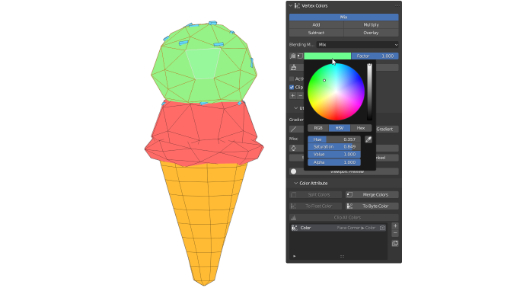
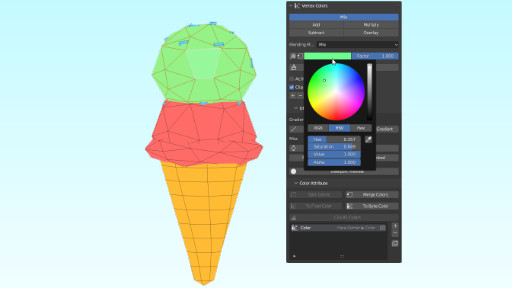
Change links

diff --git a/index.html b/index.html
@@ -20,10 +20,14 @@
 	</header>	<main class="main-container">
 		<article>
 			<p>
-				Here are some of my personal projects. I use Blender for 3D assets,	and Unreal Engine (C++ / Blueprints) and Godot Engine (C++ / GDScript) for game development.
+				I'm a student at Tampere University studying computer science and working on game development and
+				3D&nbsp;graphics projects in my free time.
+			</p>
+			<p>
+				I mainly use Blender for 3D assets, and Unreal Engine (C++&nbsp;/&nbsp;Blueprints) and Godot Engine (C++&nbsp;/&nbsp;GDScript) for game development.
 			</p>
 			<section class="projects">
-				<h2>Projects</h2>
+				<h2>My Projects</h2>
 				<div class="line"></div>
 				<ul>
 					<li>

diff --git a/bugdom_godot.html b/bugdom_godot.html
@@ -92,7 +92,7 @@
 			<br />
 			<div class="video-container">
 				<iframe width="100%" height="100%"
-					src="https://www.youtube-nocookie.com/embed/0DokrZge0eg?si=mXVPab3J-H8AxD0Y"
+					src="https://www.youtube-nocookie.com/embed/0DokrZge0eg?rel=0&si=mXVPab3J-H8AxD0Y"
 					title="YouTube video player" frameborder="0"
 					allow="accelerometer; autoplay; clipboard-write; encrypted-media; gyroscope; picture-in-picture; web-share"
 					allowfullscreen></iframe>

diff --git a/raycast_vehicle.html b/raycast_vehicle.html
@@ -51,7 +51,7 @@
 			<br>
 			<div class="video-container">
 				<iframe width="100%" height="100%"
-					src="https://www.youtube-nocookie.com/embed/qIZ1BjuaTTg?si=jxfQo0yuUjTnmzCm"
+					src="https://www.youtube-nocookie.com/embed/qIZ1BjuaTTg?rel=0&si=jxfQo0yuUjTnmzCm"
 					title="YouTube video player" frameborder="0"
 					allow="accelerometer; autoplay; clipboard-write; encrypted-media; gyroscope; picture-in-picture; web-share"
 					allowfullscreen></iframe>

diff --git a/root_motion.html b/root_motion.html
@@ -44,7 +44,7 @@
 			<br>
 			<div class="video-container">
 				<iframe width="100%" height="100%"
-					src="https://www.youtube-nocookie.com/embed/UaAp8omYVuM?si=Cmx2lsRQG3WGNJ4S"
+					src="https://www.youtube-nocookie.com/embed/UaAp8omYVuM?rel=0&si=Cmx2lsRQG3WGNJ4S"
 					title="YouTube video player" frameborder="0"
 					allow="accelerometer; autoplay; clipboard-write; encrypted-media; gyroscope; picture-in-picture; web-share"
 					allowfullscreen></iframe>

diff --git a/vertex_color_tools.html b/vertex_color_tools.html
@@ -61,7 +61,7 @@
 			<br>
 			<div class="video-container">
 				<iframe width="100%" height="100%"
-					src="https://www.youtube-nocookie.com/embed/LvQCdksnhYE?si=4PEF1T5Y1uPuFq9W"
+					src="https://www.youtube-nocookie.com/embed/LvQCdksnhYE?rel=0&si=4PEF1T5Y1uPuFq9W"
 					title="YouTube video player" frameborder="0"
 					allow="accelerometer; autoplay; clipboard-write; encrypted-media; gyroscope; picture-in-picture; web-share"
 					allowfullscreen></iframe>

diff --git a/inverse_kinematics.html b/inverse_kinematics.html
@@ -40,7 +40,7 @@
 
 			<div class="video-container">
 				<iframe width="100%" height="100%"
-					src="https://www.youtube-nocookie.com/embed/oXBchZkoYzo?si=Fmz1PeF93ScDDAFp"
+					src="https://www.youtube-nocookie.com/embed/oXBchZkoYzo?rel=0&si=Fmz1PeF93ScDDAFp"
 					title="YouTube video player" frameborder="0"
 					allow="accelerometer; autoplay; clipboard-write; encrypted-media; gyroscope; picture-in-picture; web-share"
 					allowfullscreen></iframe>
